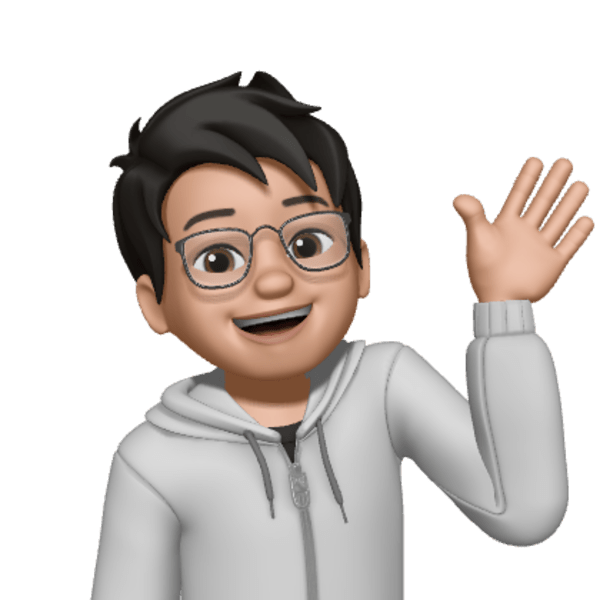
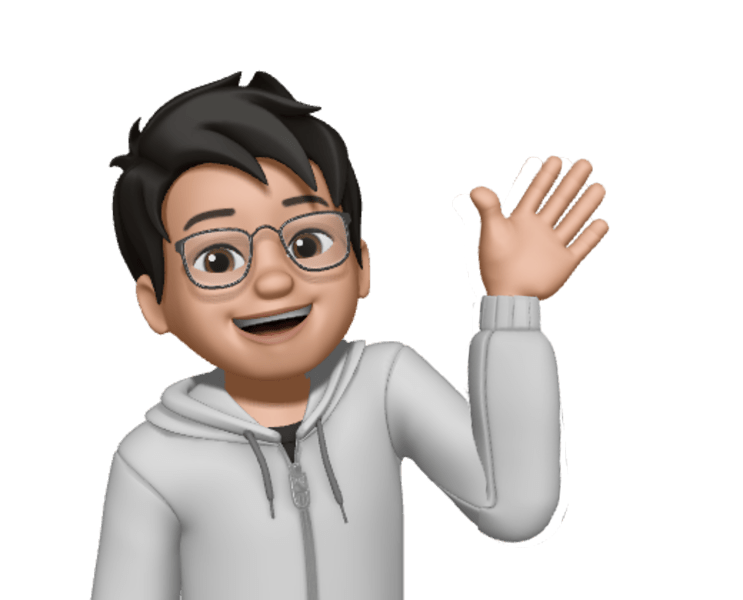
added animation frames

diff --git a/tailwind.config.js b/tailwind.config.js
@@ -1,11 +1,19 @@
+// tailwind.config.js
 module.exports = {
   purge: ['./src/**/*.{js,jsx,ts,tsx}', './public/index.html'],
   darkMode: false, // or 'media' or 'class'
   theme: {
-    extend: {},
+    extend: {
+      boxShadow: {
+        white: '0 4px 20px rgba(255, 255, 255, 0.4)', // Custom white shadow
+      },
+    },
   },
   variants: {
-    extend: {},
+    extend: {
+      boxShadow: ['hover'],
+      scale: ['hover'],
+    },
   },
   plugins: [],
-}
+};

diff --git a/animator.py b/animator.py
@@ -1,0 +1,36 @@
+from PIL import Image, ImageOps
+import os
+
+def rotate_and_move_arm(image, angle):
+    """Rotate and move the waving arm in the image by a specific angle."""
+    # Adjusted crop coordinates for the waving arm (hand and wrist included)
+    arm_crop = image.crop((420, 80, 600, 400))  # Adjust coordinates accordingly
+    
+    # Ensure there's an alpha channel
+    if arm_crop.mode != 'RGBA':
+        arm_crop = arm_crop.convert('RGBA')
+    
+    # Rotate the hand around the wrist
+    arm_rotated = arm_crop.rotate(angle, resample=Image.BICUBIC, expand=True)
+    arm_mask = arm_rotated.split()[3]  # Extract alpha channel
+
+    # Create a new copy of the base image and paste the rotated arm
+    new_image = image.copy()
+    # Adjust coordinates where to paste the rotated arm (same position as the crop)
+    new_image.paste(arm_rotated, (420, 80), arm_mask)
+    return new_image
+
+# Load the base image, ensure it's in RGBA mode
+base_image = Image.open('src/assets/me3.png').convert('RGBA')
+
+# Create output directory
+output_dir = 'src/assets/waving_hand/'
+os.makedirs(output_dir, exist_ok=True)
+
+# Generate frames with varying rotations for the waving effect
+angles = [-10, -5, 0, 5, 10, 5, 0, -5]
+for index, angle in enumerate(angles):
+    frame = rotate_and_move_arm(base_image, angle)
+    frame.save(os.path.join(output_dir, f'frame_{index + 1}.png'))
+
+print(f'Frames generated and saved in {output_dir}')
